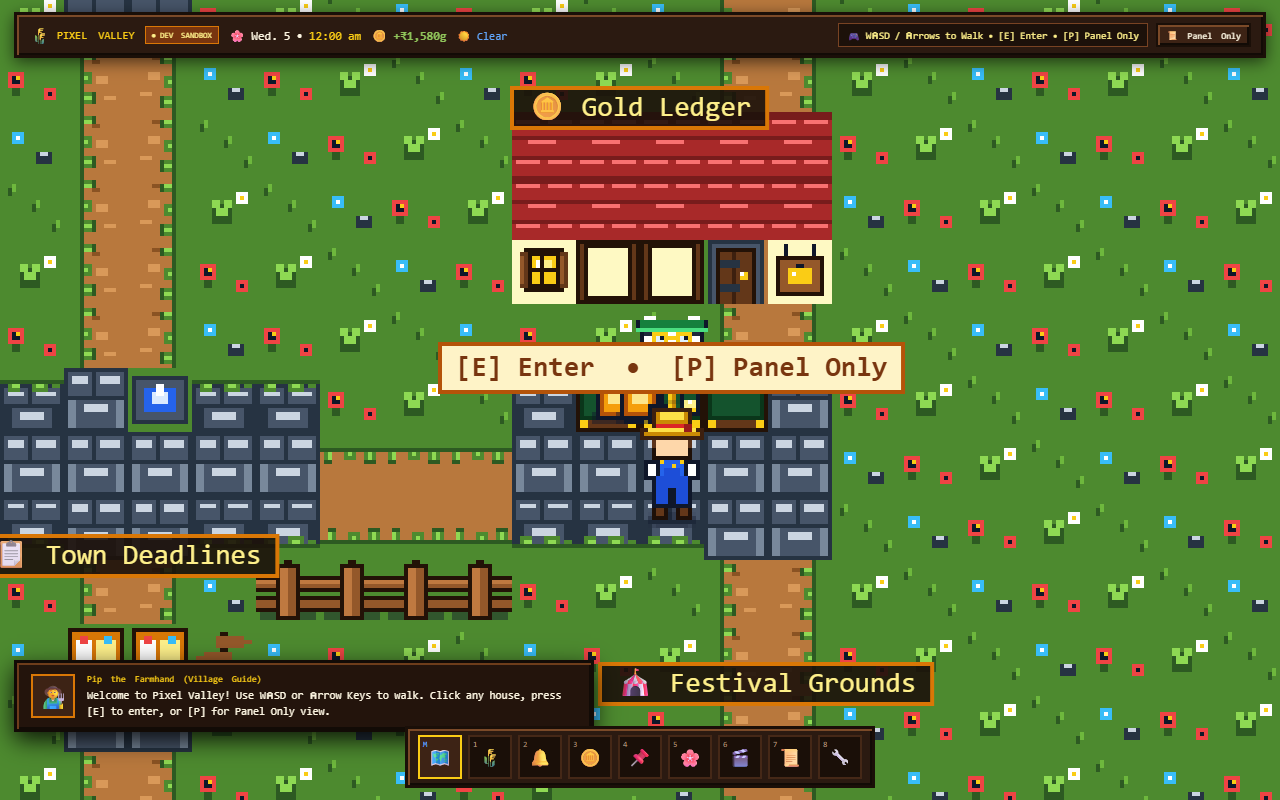
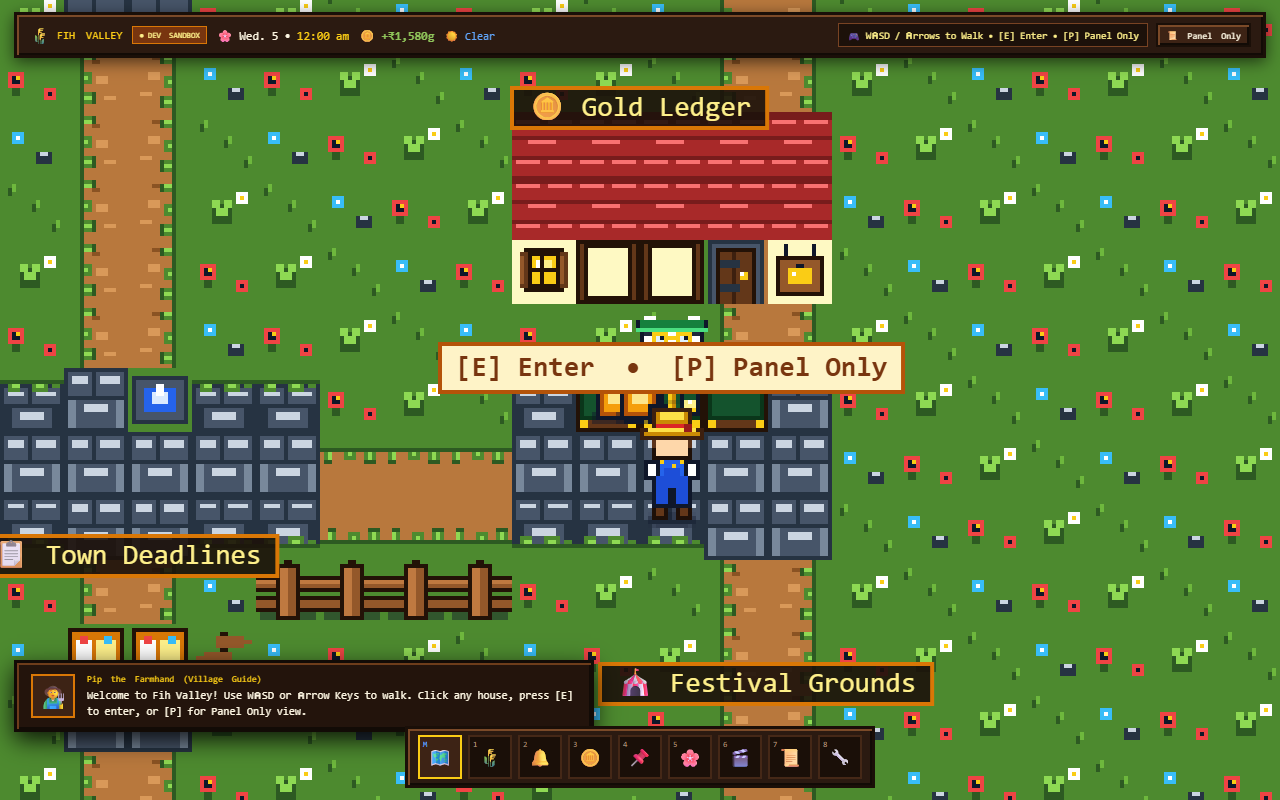
feat(brand): rename to Fih Valley and remove 16-bit RPG titles from UI headers

Changed region(s): [[0.0625, 0.8438, 0.4375, 0.9062], [0.0625, 0.0312, 0.4062, 0.0625]]

diff --git a/content/dialogue.js b/content/dialogue.js
@@ -1,4 +1,4 @@
-// Pixel Valley - Character Dialogue & Lore Tables
+// Fih Valley - Character Dialogue & Lore Tables
 // Strictly original cast: Pip, Hoot, Marigold, Bram, Juniper, Moss, Clover, Rowan, Wren
 // Spec Section 6: Contextual speech, time-of-day greetings, weather remarks, empty states
 
@@ -17,14 +17,14 @@ export const VILLAGE_DIALOGUE = {
     tales: [
       'The morning sun breaks over the farmstead meadow. A cool autumn breeze rustles the willow branches. Water the parsnips, mend the fences, and cross off today’s chores before dusk settles!',
       'Grandpa’s old journal had one simple rule: "Tend the soil daily, and the harvest will take care of itself." Let us see what tasks await on the porch notice board.',
-      'The roosters are crowing across Pixel Valley. Every completed task plants a seed for tomorrow’s harvest. What will we achieve today?',
+      'The roosters are crowing across Fih Valley. Every completed task plants a seed for tomorrow’s harvest. What will we achieve today?',
     ],
   },
   reminders: {
     character: 'hoot',
     chapterTitle: 'Chapter 2: The Bell Tower (Mailbox & Alerts)',
     morning: 'Hoo-hoo! The morning chime strikes clean. Let us organize your alerts so the day unfolds without surprises.',
-    day: 'The brass clock gears tick with quiet precision. Keep your alerts set, and Pixel Valley will always move in harmony.',
+    day: 'The brass clock gears tick with quiet precision. Keep your alerts set, and Fih Valley will always move in harmony.',
     evening: 'The brass bells chime for vespers. Let us see which promised hours remain before nightfall.',
     night: 'The owl watches from the bell tower spire while the village sleeps. Your alerts are in good talons.',
     empty: 'The tower bells are silent and tranquil. No pending alerts in the breeze.',
@@ -34,14 +34,14 @@ export const VILLAGE_DIALOGUE = {
     tales: [
       'Hoo-hoo! The village bell tower stands tall against the clouds. Each hanging bell marks a promised hour. When time arrives, the bronze bell rings true!',
       'Time flies swifter than a barn swallow, young farmer. Tie your reminders to the tower garland so no pledge slips into the fog.',
-      'The brass clock gears tick with quiet precision. Keep your alerts set, and Pixel Valley will always move in harmony.',
+      'The brass clock gears tick with quiet precision. Keep your alerts set, and Fih Valley will always move in harmony.',
     ],
   },
   deadlines: {
     character: 'marigold',
     chapterTitle: 'Chapter 3: The Notice Board (Town Deadlines)',
     morning: 'Good morning! The town board has fresh notices pinned with bright festival ribbons. What due dates are ripening?',
-    day: 'A punctual harvest is the pride of Pixel Valley! Deliver your projects and exam prep before the final bell.',
+    day: 'A punctual harvest is the pride of Fih Valley! Deliver your projects and exam prep before the final bell.',
     evening: 'The sun sets behind the hills. Double check any deadlines due by nightfall!',
     night: 'Lanterns illuminate the town board. Peaceful hours to plan tomorrow’s deliveries.',
     empty: 'The notice board is clear! No looming deadlines on the horizon—take a breath and enjoy the fair.',
@@ -50,7 +50,7 @@ export const VILLAGE_DIALOGUE = {
     fireflies: 'Summer twilight turns the town square magical. Check off your goals under the fairy lanterns.',
     tales: [
       'Welcome to the Village Notice Board! Every deadline is a crop in the countdown field. Keep watch as the dates ripen—never let the crows catch you unprepared!',
-      'A punctual harvest is the pride of Pixel Valley! Deliver your projects and exam prep before the final season bell rings.',
+      'A punctual harvest is the pride of Fih Valley! Deliver your projects and exam prep before the final season bell rings.',
       'The sands of time trickle steadily down the glass. Review your upcoming dates, plan your week, and harvest success with confidence!',
     ],
   },
@@ -77,7 +77,7 @@ export const VILLAGE_DIALOGUE = {
     morning: 'A bright morning for the village calendar! Which dear neighbor or milestone are we honoring next?',
     day: 'Flowers may wither in winter, but the warmth of remembered birthdays blooms forever. Mark milestones with joy!',
     evening: 'Evening bunting catches the golden hour light. May our valley memories grow sweeter each year.',
-    night: 'Starlight twinkles over the festival ribbon arches. Happy memories never fade in Pixel Valley.',
+    night: 'Starlight twinkles over the festival ribbon arches. Happy memories never fade in Fih Valley.',
     empty: 'The seasonal festival garland is prepared. Add birthdays and milestones to celebrate together!',
     rain: 'The raindrops glisten like beads on the festival ribbon garland. Every season brings its own beauty.',
     snow: 'Snowflakes fall softly upon the solstice square. Hot cider and warm hearts keep the winter cheerful.',
@@ -108,7 +108,7 @@ export const VILLAGE_DIALOGUE = {
   audit: {
     character: 'moss',
     chapterTitle: 'Chapter 7: The Archive Cellar (The Chronicle)',
-    morning: 'The cellar lantern is trimmed. The chronicle preserves every step taken in Pixel Valley.',
+    morning: 'The cellar lantern is trimmed. The chronicle preserves every step taken in Fih Valley.',
     day: 'Every verified transaction, dispatched reminder, and completed chore rests safely upon these cedar shelves.',
     evening: 'The shadows lengthen across the archives. Another day of deeds inscribed in indelible oak ink.',
     night: 'Underground, the quiet is timeless. The scrolls keep their silent vigil over all past events.',
@@ -117,7 +117,7 @@ export const VILLAGE_DIALOGUE = {
     snow: 'The cellar remains warm and dry beneath the frozen soil. The records are safe for generations.',
     fireflies: 'Lantern light flickers against the cobblestone walls. Look back upon your journey, traveler.',
     tales: [
-      'Step softly down the stone steps. In this ancient cellar, the records of Pixel Valley are inscribed into eternal volumes. History is never erased, only preserved.',
+      'Step softly down the stone steps. In this ancient cellar, the records of Fih Valley are inscribed into eternal volumes. History is never erased, only preserved.',
       'Every verified transaction, dispatched reminder, and completed chore rests safely upon these cedar shelves. The truth remains steadfast.',
       'Lantern light flickers against the cobblestone walls. Look back upon your journey, traveler, and see the steadfast ledger of your deeds.',
     ],
@@ -171,7 +171,7 @@ export function getContextualDialogue(tab, { timeOfDay = 'day', weather = 'clear
 
   // Fallback to random lore tale
   const tales = chapter.tales || [];
-  return tales[0] || chapter.day || 'Welcome to Pixel Valley!';
+  return tales[0] || chapter.day || 'Welcome to Fih Valley!';
 }
 
 export default VILLAGE_DIALOGUE;

diff --git a/pages/index.js b/pages/index.js
@@ -185,7 +185,7 @@ export default function Dashboard() {
           fontSize: 12,
         }}
       >
-        <span>LOADING 16-BIT PIXEL VALLEY...</span>
+        <span>LOADING FIH VALLEY...</span>
       </div>
     );
   }
@@ -226,8 +226,8 @@ export default function Dashboard() {
 
   let currentResidentId = 'pip';
   let residentFullName = 'Pip the Farmhand';
-  let chapterTitle = 'Pixel Valley Overworld';
-  let dialogueLine = 'Welcome to Pixel Valley! Use WASD or Arrow Keys to walk. Click any house, press [E] to enter, or [P] for Panel Only view.';
+  let chapterTitle = 'Fih Valley Overworld';
+  let dialogueLine = 'Welcome to Fih Valley! Use WASD or Arrow Keys to walk. Click any house, press [E] to enter, or [P] for Panel Only view.';
 
   if (activeTab) {
     const chapterDialogue = dialogueContent[activeTab] || dialogueContent.debts;
@@ -258,8 +258,8 @@ export default function Dashboard() {
   return (
     <>
       <Head>
-        <title>fih — Pixel Valley (16-Bit RPG)</title>
-        <meta name="description" content="16-Bit Top-Down Farming RPG Personal Operating System" />
+        <title>fih — Fih Valley</title>
+        <meta name="description" content="Fih Valley Personal Operating System" />
         <meta name="viewport" content="width=device-width, initial-scale=1.0" />
       </Head>
 
@@ -326,7 +326,7 @@ export default function Dashboard() {
                   letterSpacing: '0.04em',
                 }}
               >
-                Pixel Valley
+                Fih Valley
               </span>
             </div>
 
@@ -411,7 +411,7 @@ export default function Dashboard() {
               className={`btn-pixel ${!showCanvas ? 'btn-gold' : ''}`}
               onClick={() => setShowCanvas(!showCanvas)}
               style={{ padding: '3px 8px', fontSize: 9 }}
-              title="Toggle between 16-bit Top-down World and Plain Ledger view"
+              title="Toggle between World Map and Panel Only view"
             >
               {showCanvas ? '📜 Panel Only' : '🗺 Show World'}
             </button>
@@ -462,7 +462,7 @@ export default function Dashboard() {
                     {CHAPTER_ANCHORS[activeTab]?.name || 'Ledger Hut'}
                   </span>
                   <div style={{ fontSize: 11, color: '#784323', marginTop: 2 }}>
-                    16-bit RPG Ledger • Bound to live records
+                    {CHAPTER_ANCHORS[activeTab]?.chapterTitle || 'Village Chapter'} • Bound to live records
                   </div>
                 </div>
 

diff --git a/tests/characterDialogue.test.js b/tests/characterDialogue.test.js
@@ -28,7 +28,7 @@ describe('Original Cast Roster & IP Compliance (Spec Section 2.1 & 6)', () => {
     'rowan',
   ];
 
-  it('contains exactly the 9 original Pixel Valley characters in metadata', () => {
+  it('contains exactly the 9 original Fih Valley characters in metadata', () => {
     EXPECTED_CHARACTERS.forEach((id) => {
       expect(CHARACTER_META[id]).toBeDefined();
       expect(CHARACTER_META[id].name).toBeTruthy();

diff --git a/components/SettingsView.jsx b/components/SettingsView.jsx
@@ -447,7 +447,7 @@ export default function SettingsView({ envMode, onSwitchEnvMode, updatingEnv }) 
               <span style={{ fontWeight: 600, fontSize: 13, color: '#fdf6e2' }}>Dark</span>
             </div>
             <p style={{ fontSize: 11, color: '#a38d7b', margin: 0 }}>
-              Cozy Pixel Valley hearth
+              Cozy Fih Valley hearth
             </p>
           </div>
 
